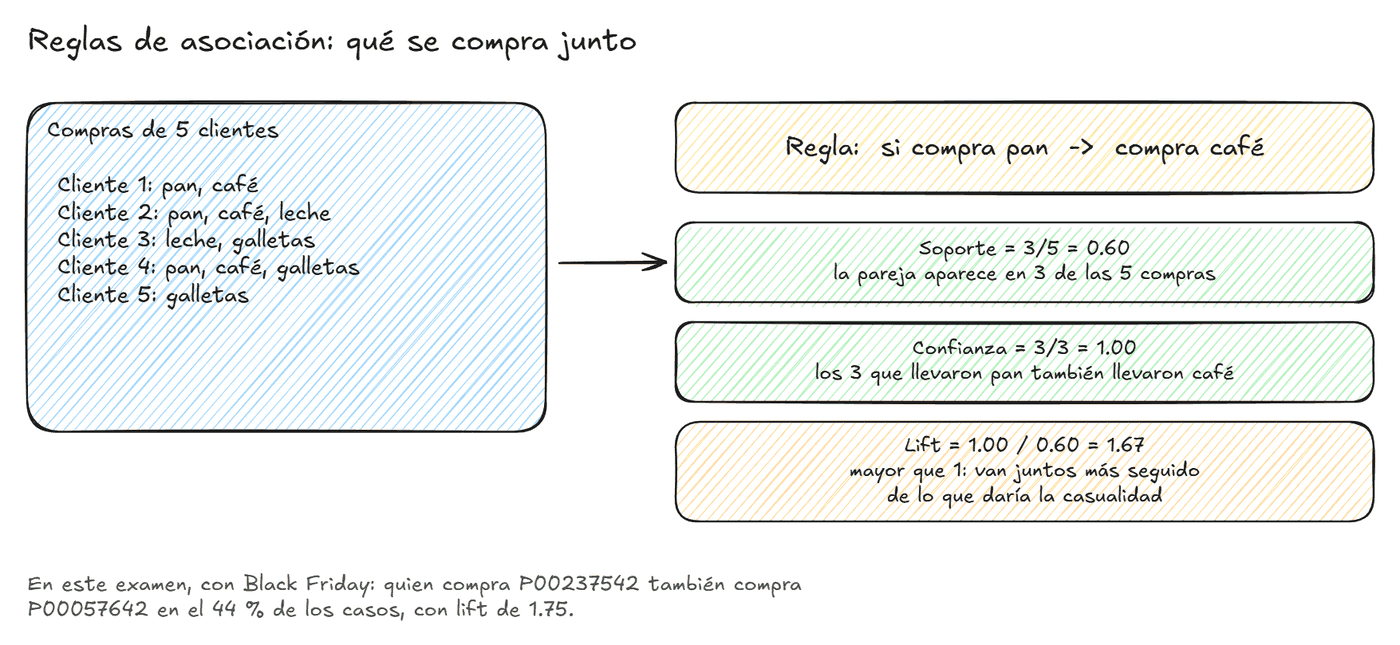
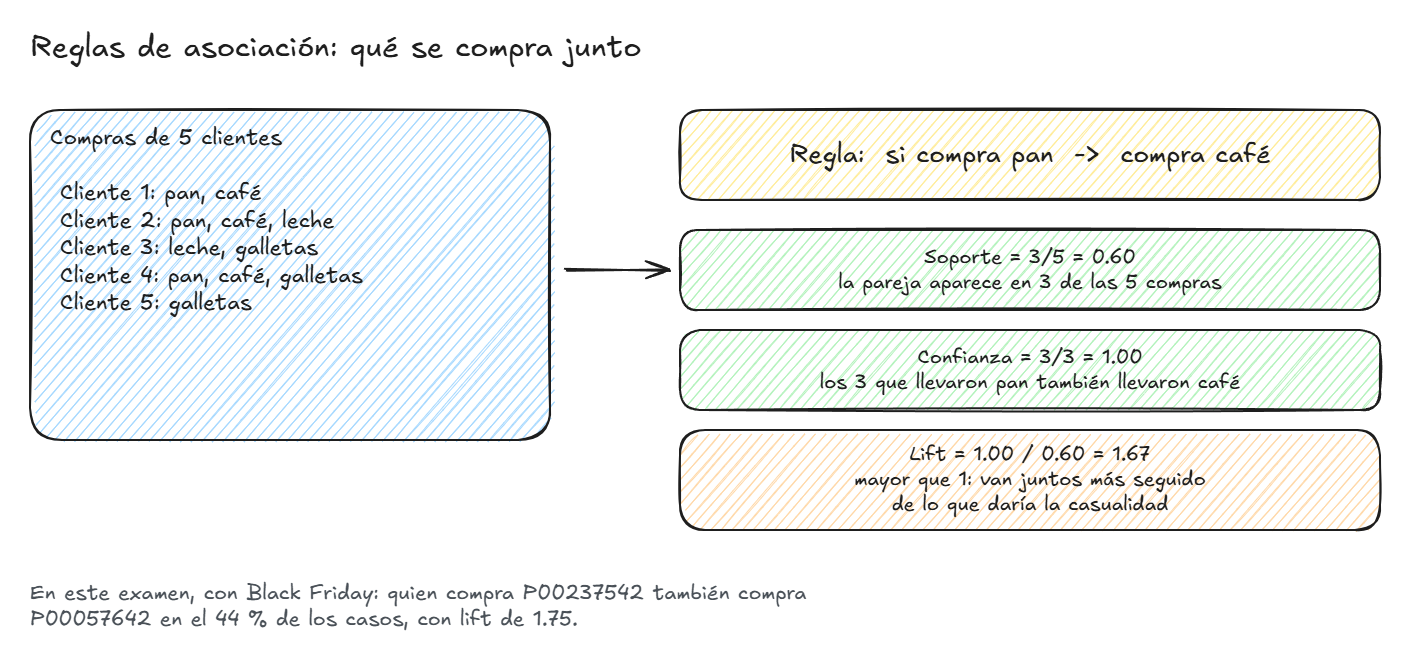
Replace figures with Excalidraw diagram images

diff --git a/README.md b/README.md
@@ -1,66 +1,3 @@
-# Examen 1 de Inteligencia Artificial: diagramas y figuras
+# Examen 1 IA: imágenes de los diagramas
 
-IC-6200 Inteligencia Artificial · Tecnológico de Costa Rica, Campus San Carlos · II Semestre 2026
-
-Magdaleno Gómez Díaz · carné 2023395761
-
-Diagramas y figuras que ilustran el notebook del examen.
-
-## Diagramas (Excalidraw)
-
-Cada diagrama está en PNG y con su archivo `.excalidraw` original, que se abre y se edita en [excalidraw.com](https://excalidraw.com) con *Abrir*.
-
-| Concepto | Diagrama | Fuente |
-|---|---|---|
-| 1. Algoritmo supervisado | [d1_supervisado.png](diagramas/d1_supervisado.png) | [d1_supervisado.excalidraw](diagramas/d1_supervisado.excalidraw) |
-| 2. Algoritmos no supervisados | [d2_no_supervisado.png](diagramas/d2_no_supervisado.png) | [d2_no_supervisado.excalidraw](diagramas/d2_no_supervisado.excalidraw) |
-| 3. Algoritmo de predicción | [d3_prediccion.png](diagramas/d3_prediccion.png) | [d3_prediccion.excalidraw](diagramas/d3_prediccion.excalidraw) |
-| 4. Algoritmo de clasificación | [d4_clasificacion.png](diagramas/d4_clasificacion.png) | [d4_clasificacion.excalidraw](diagramas/d4_clasificacion.excalidraw) |
-| 5. Algoritmo de agrupación | [d5_agrupacion.png](diagramas/d5_agrupacion.png) | [d5_agrupacion.excalidraw](diagramas/d5_agrupacion.excalidraw) |
-| 6. Algoritmo de reglas de asociación | [d6_asociacion.png](diagramas/d6_asociacion.png) | [d6_asociacion.excalidraw](diagramas/d6_asociacion.excalidraw) |
-| 7. Tipos de variables estadísticas | [d7_tipos_variables.png](diagramas/d7_tipos_variables.png) | [d7_tipos_variables.excalidraw](diagramas/d7_tipos_variables.excalidraw) |
-| 9. Variable categórica (one-hot) | [d9_one_hot.png](diagramas/d9_one_hot.png) | [d9_one_hot.excalidraw](diagramas/d9_one_hot.excalidraw) |
-| Parte 2: fases de CRISP-DM | [d0_crisp_dm.png](diagramas/d0_crisp_dm.png) | [d0_crisp_dm.excalidraw](diagramas/d0_crisp_dm.excalidraw) |
-
-## Figuras generadas con código
-
-Salen de ejecutar el notebook con los datasets del examen (Car Details y Black Friday Sales).
-
-### Parte 1
-
-* [R²: error sin modelo contra error con la recta](figuras/parte1/01_r2_promedio_contra_recta.png)
-* [Matriz de confusión: ¿el carro es automático?](figuras/parte1/02_matriz_confusion.png)
-* [Curva ROC](figuras/parte1/03_curva_roc.png)
-* [R² contra AIC al agregar variables](figuras/parte1/04_r2_contra_aic.png)
-* [Correlación con el log del precio](figuras/parte1/05_correlacion.png)
-* [Cambio de magnitudes: original contra estandarizado](figuras/parte1/06_cambio_magnitudes.png)
-* [Set de datos desbalanceado: transmisión](figuras/parte1/07_desbalance_transmision.png)
-
-### Parte 2A
-
-* [Precio y log del precio](figuras/parte2A/01_distribucion_precio.png)
-* [Matriz de correlación](figuras/parte2A/02_matriz_correlacion.png)
-* [Precio según las variables categóricas](figuras/parte2A/03_precio_por_categoricas.png)
-* [Precio mediano por marca](figuras/parte2A/04_precio_por_marca.png)
-* [Potencia contra precio](figuras/parte2A/05_potencia_contra_precio.png)
-* [R² medio en validación cruzada](figuras/parte2A/06_validacion_cruzada.png)
-* [Error absoluto y porcentual en prueba](figuras/parte2A/07_error_en_prueba.png)
-* [Real contra predicho](figuras/parte2A/08_real_contra_predicho.png)
-* [Diagnóstico de residuos](figuras/parte2A/09_residuos.png)
-* [Importancia de variables](figuras/parte2A/10_importancia_variables.png)
-
-### Parte 2B
-
-* [Clientes por dato demográfico](figuras/parte2B/01_clientes_demografia.png)
-* [Monto por compra y categorías más vendidas](figuras/parte2B/02_monto_y_categorias.png)
-* [Curva de Pareto del gasto](figuras/parte2B/03_pareto_gasto.png)
-* [Gasto por edad y por ciudad](figuras/parte2B/04_gasto_edad_ciudad.png)
-* [Correlación entre variables del cliente](figuras/parte2B/05_correlacion_cliente.png)
-* [Método del codo](figuras/parte2B/06_metodo_codo.png)
-* [Silueta y Davies-Bouldin por k](figuras/parte2B/07_silueta_davies_bouldin.png)
-* [Grupos en el plano PCA](figuras/parte2B/08_grupos_pca.png)
-* [Productos más frecuentes](figuras/parte2B/09_productos_frecuentes.png)
-* [Silueta de cada cliente por grupo](figuras/parte2B/10_silueta_por_cliente.png)
-* [Pareto de los grupos](figuras/parte2B/11_pareto_grupos.png)
-* [Perfil de cada grupo](figuras/parte2B/12_perfil_grupos.png)
-* [Demografía de cada grupo](figuras/parte2B/13_demografia_grupos.png)
+Imágenes de los diagramas hechos en Excalidraw para el notebook del examen.
